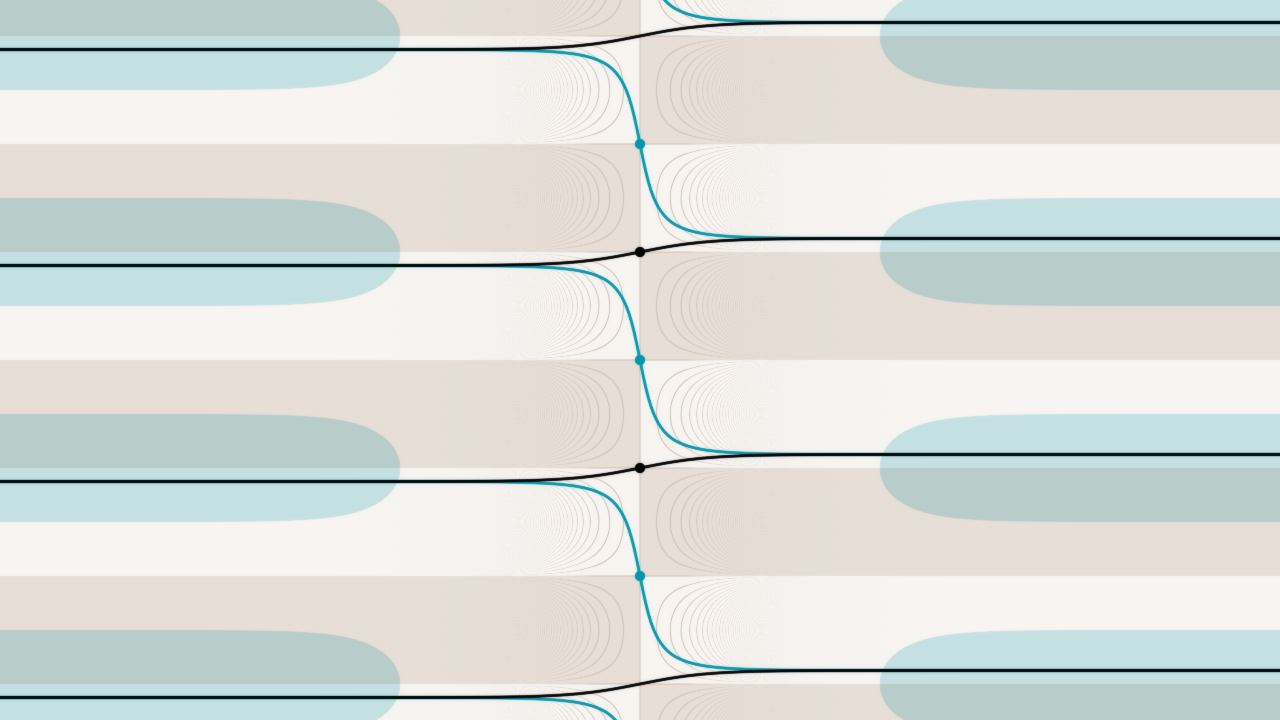
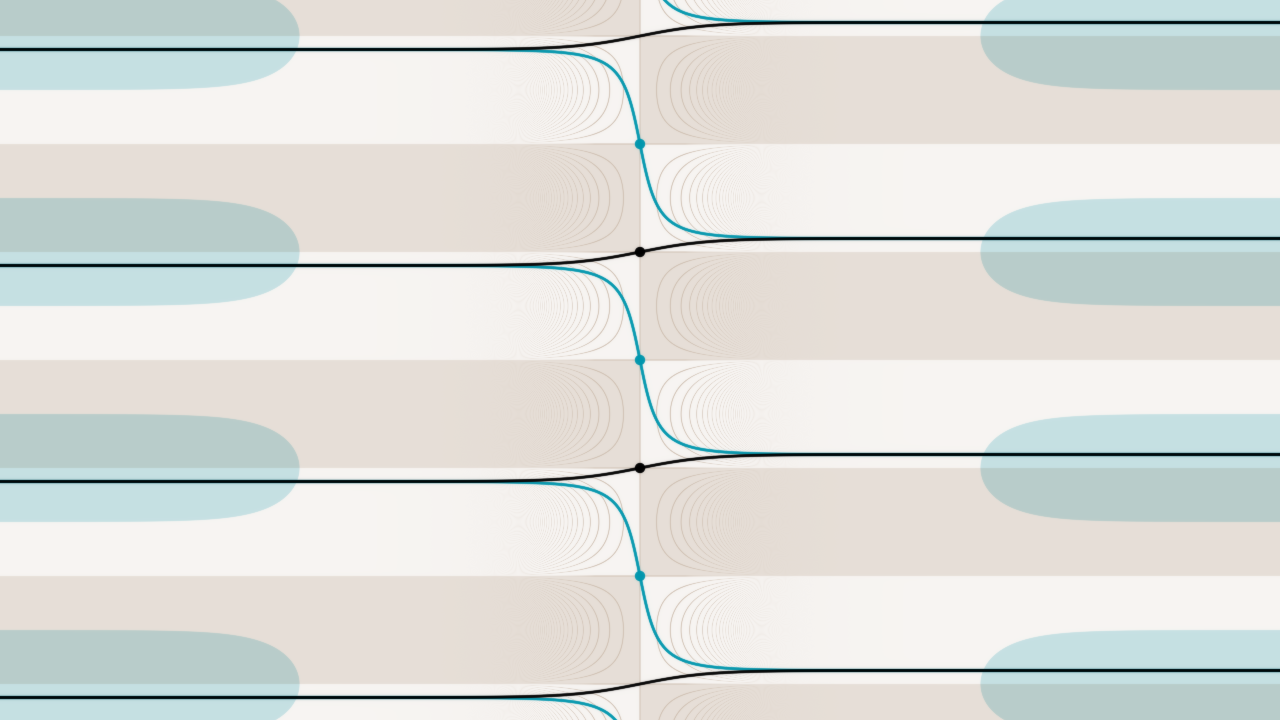
Set end zone thresholds to integer values
Also, update Airy contour picture.

diff --git a/exp-resurgence.tex b/exp-resurgence.tex
@@ -506,7 +506,7 @@ Our treatment of thimble integrals will be based on our geometric picture of the
 \color{RoyalBlue}
 Consider a thimble integral of the form described in Section~\ref{borel-reg:explanatory-power}. We will define our setting in the language of translation surfaces, to make clear the connection with our geometric picture of the Laplace transform. The codomain of $f$ has a natural structure of translation surface---a Riemann surface carrying a holomorphic 1-form $d\zeta$, and $\zeta$ is a translation coordinate. \textcolor{NavyBlue}{[The important thing about $\C$, where $f$ takes values, is that it is a translation surface---\ldots]} For each critical point $a$, let $\mathcal{J}_\alpha^\theta$ be the ray going to infinity with an angle $\theta$ from the critical value $\alpha$, and let $\zeta_{\alpha}$ be the translation coordinate around $\mathcal{J}_\alpha^\theta$ which vanishes at $\alpha$. These are well-defined as long as $\mathcal{J}_\alpha^\theta$ misses the critical values of $f$. Then, the preimage $f^{-1}(\mathcal{J}_\alpha^\theta)$ is a bunch of disjoint curves (see Figure \ref{fig:thimble_vs_rays}), as long as $\mathcal{J}_\alpha^\theta$ misses the other critical values of $f$. The Lefschetz thimble $\mathcal{C}_a^\theta$ can be regarded as the component of $f^{-1}(\mathcal{J}_\alpha^\theta)$ that goes through $a$. \textcolor{orange}{We could orient the thimble so that shifting $\mathcal{C}_a$ to its left would make its projection run clockwise around $\mathcal{J}_\alpha$. However, this only seems to be possible when $X$ is 1-dimensional.} 
 \begin{center}
-\includegraphics[width=6.5cm]{figures/rays.png}
+\includegraphics[width=6.5cm]{figures/rays_ge6.png}
 \hspace{0.5cm}
 \includegraphics[width=6.5cm]{figures/thimbles-n5.png}
 \captionof{figure}{The rays $\mathcal{J}^{\pi/8}_{\zeta, \pm 1}$ on the position domain, and their preimages in the $u$ plane.}\label{fig:thimble_vs_rays}
@@ -2302,8 +2302,10 @@ With the substitution $t = 2uy^{1/2}$, we can rewrite the Airy integral as
 \[ \Ai(y) = y^{1/2}\;\frac{1}{\pi i} \int_{\mathcal{C}^\theta_1} \exp\left[\tfrac{2}{3}y^{3/2} \left(4u^3 - 3u\right)\right]\,du, \]
 where $\mathcal{C}^\theta_1$ is the contour that passes through the point $u = \tfrac{1}{2}$ and projects to the ray $\mathcal{J}^\theta_{\zeta, 1}$ under the mapping $-\zeta = 4u^3 - 3u$.
 \begin{center}
-\includegraphics[width=10cm]{figures/thimble_Airy.png}
-\captionof{figure}{These pictures of the $u$ and $\zeta$ planes show the contour $\mathcal{C}^{\pi/8}_1$ and its projection $\mathcal{J}^{\pi/8}_{\zeta, 1}$. \textcolor{orange}{[Add $\zeta$ plane picture.]} The light and dark checks are the preimages of the upper and lower halves of the $\zeta$ plane, respectively. The region $\Re(\zeta) > 4$ is shaded and its preimage in the $u$ plane are shaded.}\label{fig:path_Airy}
+\includegraphics[width=6.5cm]{figures/ray_1_ge3.png}
+\hspace{0.5cm}
+\includegraphics[width=6.5cm]{figures/thimble-n3_1.png}
+\captionof{figure}{The ray $\mathcal{J}^{\pi/8}_{\zeta, 1}$ in the $\zeta$ plane and its preimage $\mathcal{C}^{\pi/8}_1$ in the $u$ plane. The upper and lower halves of the $\zeta$ plane are colored light and dark, so their preimages form a checker pattern on the $u$ plane. The region $\Re(\zeta) > 3$ and its preimage in the $u$ plane are shaded.}\label{fig:path_Airy}
 \end{center}
 
 Note that $4u^3 - 3u$ is the third Chebyshev polynomial. By considering other Chebyshev polynomials, we can situate the Airy function within the family of {\em Airy-Lucas functions}. Treating these functions as a family adds more insight than complexity, so we will go straight to the general case. However, since the Airy function is a classic example in the study of Borel summation and resurgence, it may be worth seeing on its own. In Appendix~\ref{airy-appendix}, we give a detailed treatment of the Airy function, specializing our arguments from the general case.
